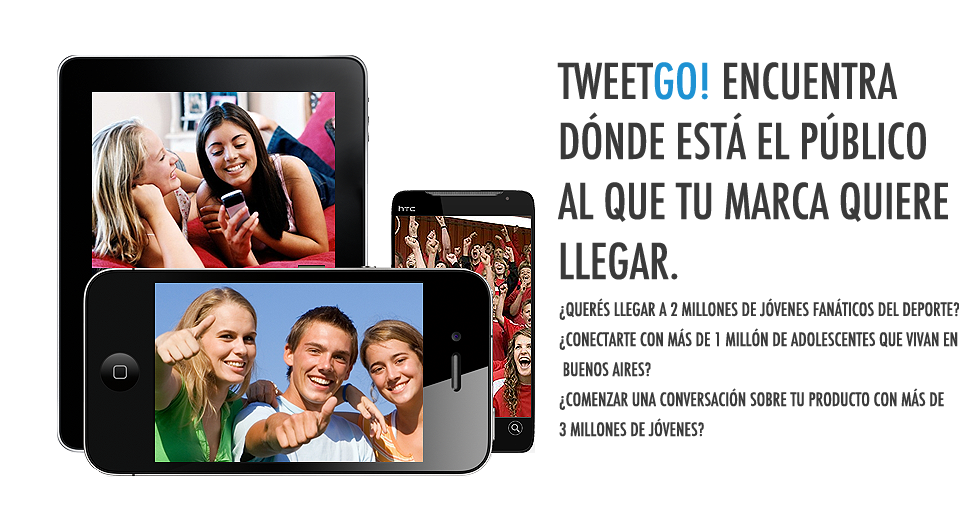
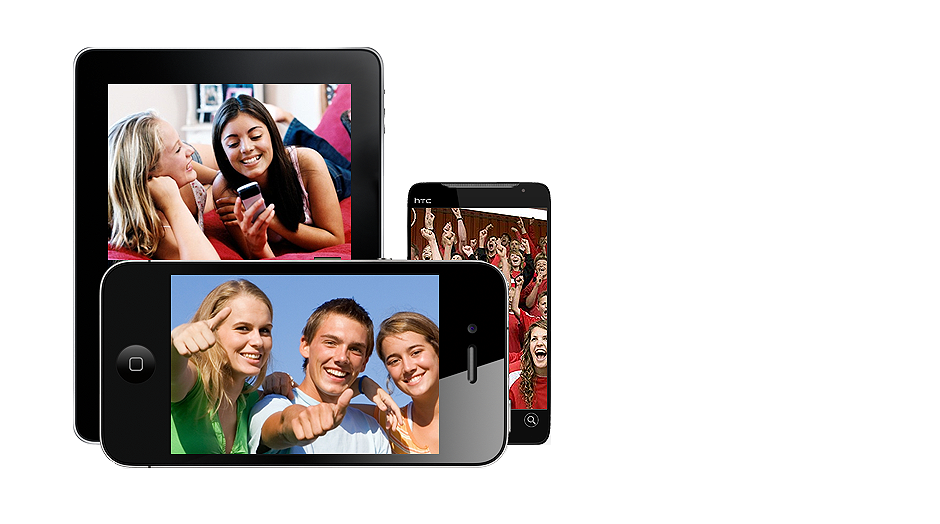
Upadting the UI for the frontend

diff --git a/app/assets/stylesheets/application.css.sass b/app/assets/stylesheets/application.css.sass
@@ -59,5 +59,53 @@
 // Home page
 #home_carousel
   margin: 10px 0 0 0
+  .blue
+    color: #1e92d3
   .item
     background-image: url('/assets/bg_carousel.png')
+    height: 524px
+    width: 940px
+    .title
+      font-family: 'Basic', sans-serif
+      font-size: 36px
+      line-height: 1.2em
+      letter-spacing: -0.04em
+    .subtitle
+      font-family: 'Basic', sans-serif
+      font-size: 18px
+      line-height: 1.6em
+      letter-spacing: -0.04em
+  .slide1
+    background-image: url('/assets/home_slide_1.png')
+    height: 524px
+    width: 940px
+    .title
+      padding: 40px 0 0 80px
+    .subtitle
+      padding: 10px 0 0 80px
+      font-size: 24px
+  .slide2
+    background-image: url('/assets/home_slide_2.png')
+    height: 524px
+    width: 940px
+    .title
+      padding: 36px 0 0 560px
+      letter-spacing: -0.06em
+    .subtitle
+      padding: 30px 0 0 560px
+  .slide3
+    background-image: url('/assets/home_slide_3.png')
+    height: 524px
+    width: 940px
+    .title
+      padding: 40px 0 0 80px
+    .subtitle
+      padding: 10px 0 0 80px
+  .slide4
+    background-image: url('/assets/home_slide_4.png')
+    height: 524px
+    width: 940px
+    .title
+      padding: 36px 0 0 80px
+    .subtitle
+      padding: 20px 0 0 80px
